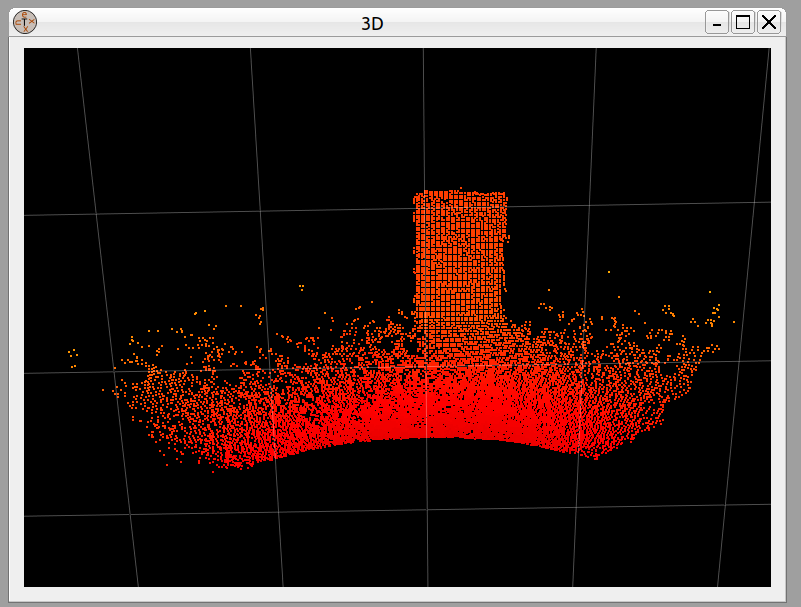
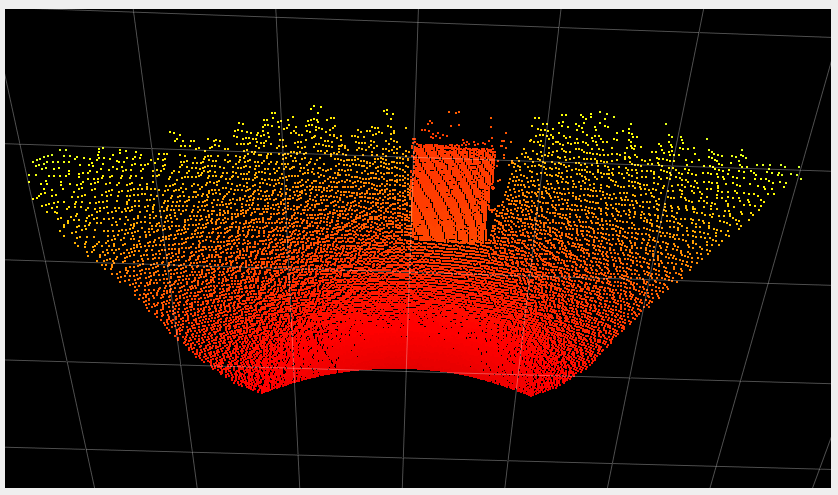
Changes noise images and rephrase low noise explanation

diff --git a/GeneralDoc/maxDistNoise.md b/GeneralDoc/maxDistNoise.md
@@ -10,7 +10,7 @@ The O3R camera and software uses the ifm ToF technology for measuring the distan
 The distance noise image gets processed in the same algorithmic pipeline as the distance image itself. Any filter applied to the distance image are applied to the distance noise image as well. For example if filters are activated in the spatial domain (see the [bilateral filter](INSERT-LINK)), they also filter the distance noise image, such that the adapted noise image reflects the lowered noise due to lateral filtering.
 
 The parameter `maxDistNoise` is used to invalidate pixels with high noise levels. Higher `maxDistNoise` values will allow more noisy pixels to be  valid pixels in the point cloud. The maximum allowed value is 1 meter, though we do not recommend using such a high value as the resulting distance measurement will be highly inaccurate in the noisy areas. 
-Low `maxDistNoise` values will result in more noisy pixels being marked as invalid. Using values lower than 0.01 meters is not recommended either as it invalidates large portions of the image for many scenes (we expect a distance standard deviation of about 0.5 percent of the measurement range, see the [datasheets](INSERT-LINK)).    
+Low `maxDistNoise` values will result in more noisy pixels being marked as invalid. Using values lower than 0.01 meters should always be validated against worst case expected object and ambient light levels.    
 
 The minimum allowed `maxDistNoise` value is 0.00 meters. This will switch off the validation process based on the estimated distance noise image. The distance noise image is still computed and available to the user.
 
@@ -18,10 +18,11 @@ We suggest to start your experiments with the default values and assess the poin
 
 ### Example
 The following table shows the measurement for a same scene with two different distance noise threshold values. The scene consists of a box positioned one meter away from the camera, outside in full sunlight. The amount of noise due to the ambient light is high, but we see that we can still get distance values for many pixels by increasing the noise threshold.
+> Note: for demonstration purposes, we disabled the [temporal filter](temporalFilter.md) in these images.
 
 | Noise threshold [m]| Distance noise image| | Point cloud|
 |:--:|--|--|--|
-| 0.01| ![Low noise threshold - noise image](resources/low_noise_001_outside_noise.png)| ![Color bar](resources/color_bar_noise.png)| ![Low noise threshold in the point cloud](resources/low_noise_001_outside_cloud.png)|
+| 0.01| ![Low noise threshold - noise image](resources/noise_outside_noise.png)| ![Color bar](resources/color_bar_noise.png)| ![Low noise threshold in the point cloud](resources/low_noise_001_outside_cloud.png)|
 | 0.07 | | | ![Low noise threshold in the point cloud](resources/med_noise_007_outside_cloud.png)|
 
 > Note: the distance noise image is the same for both noise threshold value. The difference is viewed in the point cloud, where more or less pixels are discarded by the noise filtering.
